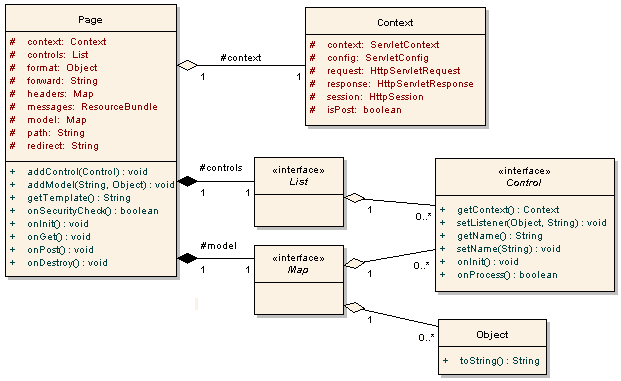
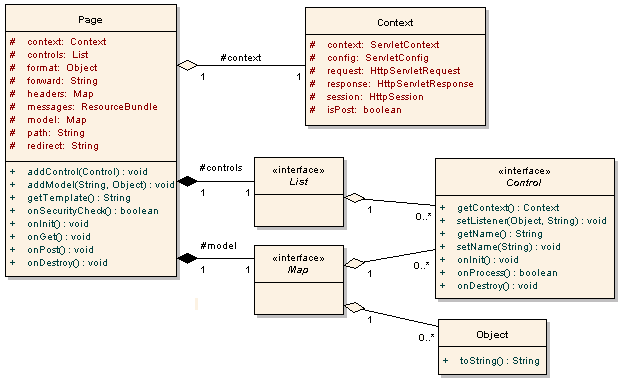
git-svn-id: https://svn.apache.org/repos/asf/incubator/click/trunk@716340 13f79535-47bb-0310-9956-ffa450edef68

Changed region(s): [[0.7037, 0.5197, 1.0, 0.8084]]

diff --git a/click/documentation/docs/roadmap-changes.html b/click/documentation/docs/roadmap-changes.html
@@ -40,6 +40,11 @@ and documentation updates.
     <ul style="padding: 0em; margin-left:0em;">
       <li class="change">
 		<span style="font-weight:bold;color:navy;">Important Change</span> 
+		the Page <a href="click-api/net/sf/click/Page.html#stateful">stateful</a> property
+		to support persistence.
+      </li>
+      <li class="change">
+		<span style="font-weight:bold;color:navy;">Important Change</span> 
 		the <a href="click-api/net/sf/click/Context.html">Context</a> object
 		is now available in Page and Control constructors.
       </li>
@@ -63,6 +68,10 @@ and documentation updates.
 		<a href="configuration.html#application-file-item-factory">File Item Factory</a> 
 		topic for more details. This change enables for request parameter auto binding
 		on multipart file upload requests.
+      </li>
+      <li class="change">
+		Added Control <a href="click-api/net/sf/click/Control.html#onDestroy()">onDestroy()</a> 
+		destroy event handler.
       </li>
       <li class="change">
       	Added AbstractControl <a href="click-api/net/sf/click/control/AbstractControl.html#getPage()">getPage()</a> method. 

diff --git a/click/documentation/docs/controls.html b/click/documentation/docs/controls.html
@@ -110,6 +110,10 @@ Methods on the Control interface include:
    <a href="click-api/net/sf/click/Control.html#onProcess()">onProcess()</a>
    &nbsp; - &nbsp; process request event handler.
   </li>
+  <li>
+   <a href="click-api/net/sf/click/Control.html#onDestroy()">onDestroy()</a>
+   &nbsp; - &nbsp; on destroy event handler.
+  </li>
 </ul>
 
 <a name="control-callback" class="heading"><h2>Control Callback</h2></a>
